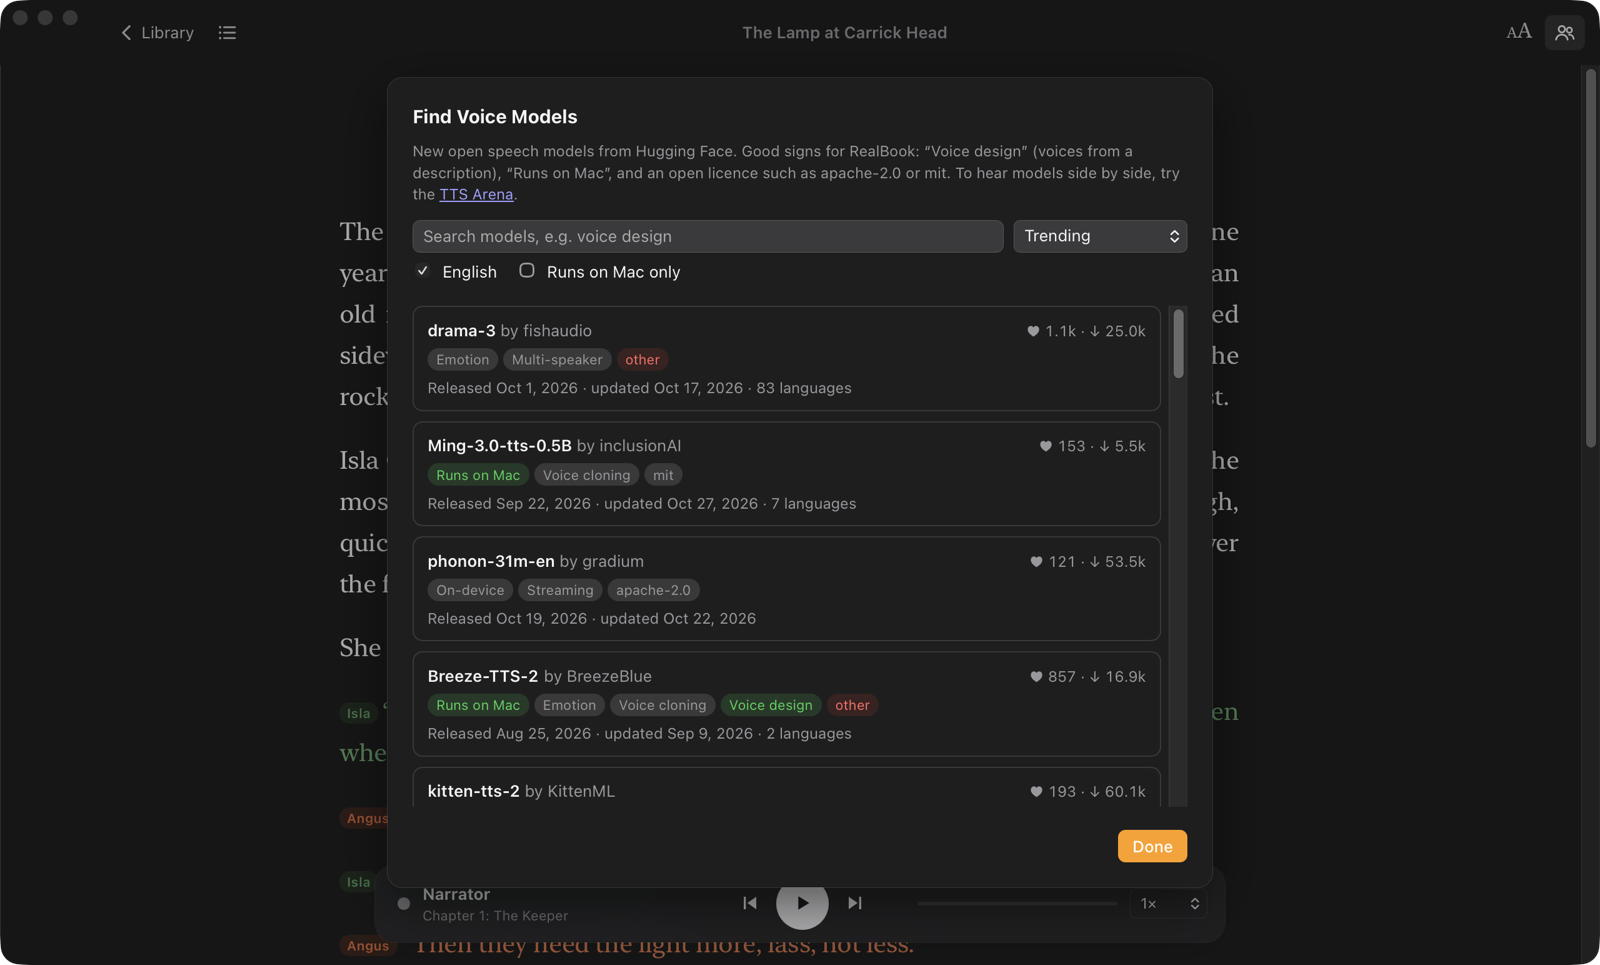
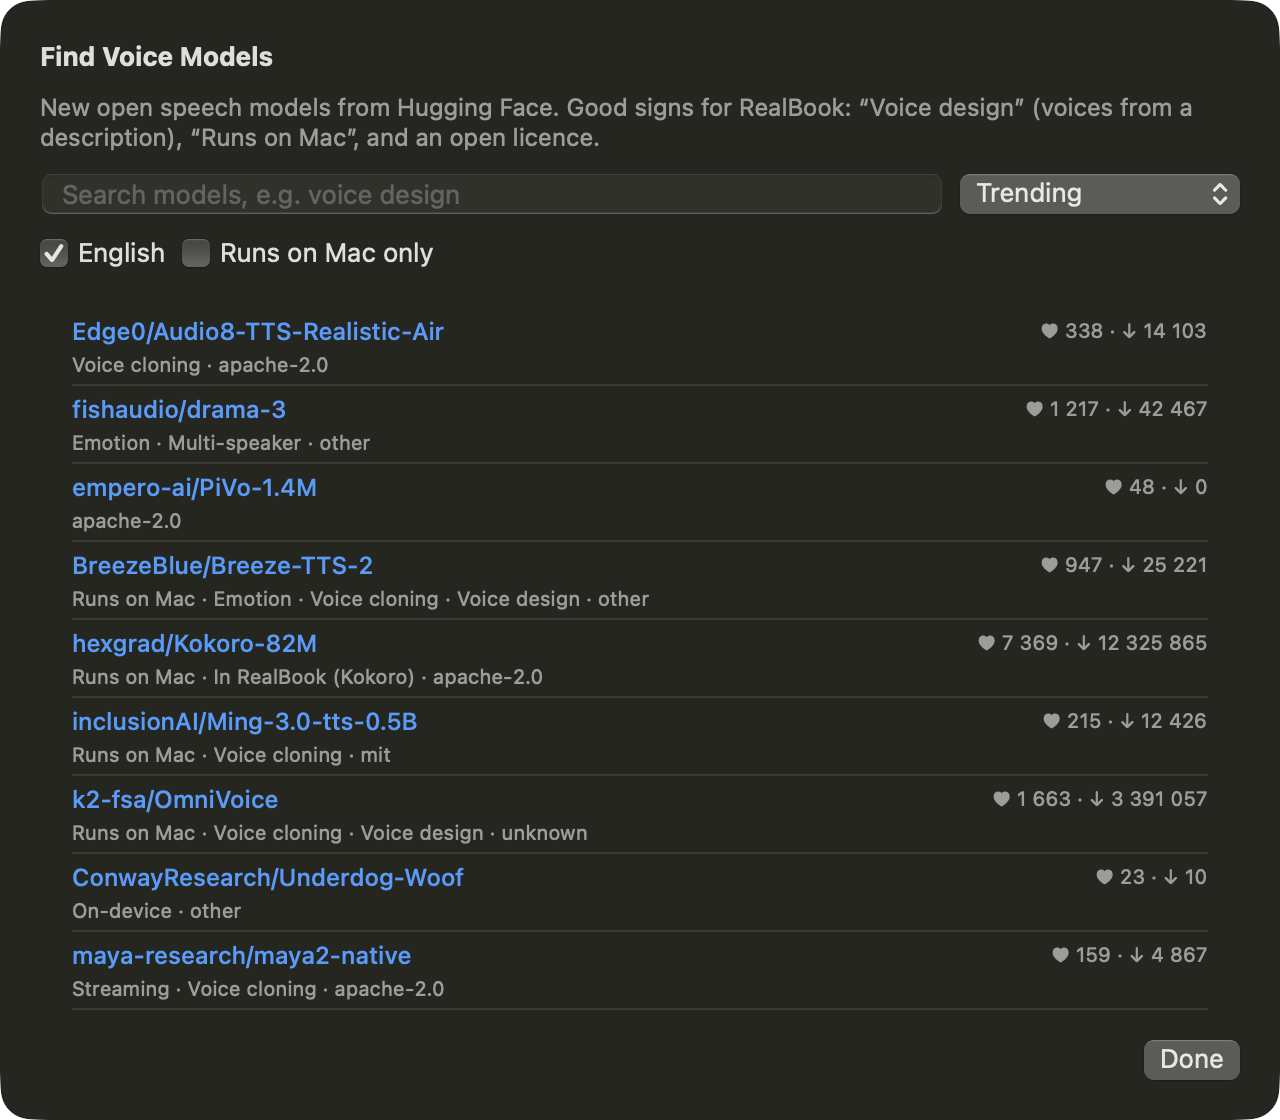
Website and README: the iPhone app, and pictures of the current apps
The phone section described listening in the phone's browser; it now covers the iPhone app (pairing,
the next 4 hours saved, offline copies), how to install it from Xcode, and the browser for other
devices. New pictures of the iPhone app and the Find Voice Models window; the unused old library
picture is gone. The Mac debug script can open Settings and the model finder for screenshots.

diff --git a/docs/index.html b/docs/index.html
@@ -83,7 +83,7 @@
         <a class="btn secondary" href="https://github.com/stanislav16/realbook/releases/latest/download/RealBook-linux.tar.gz">Download for Linux<small>64-bit, Ubuntu 22.04 or newer</small></a>
       </div>
       <p class="note">Open source (GPL-3.0). No account, no subscription. Works with DRM-free EPUB and text files.</p>
-      <div class="shot"><img src="images/reader.png" alt="RealBook reading a book, with each character's lines in their own colour and the cast of voices beside it"></div>
+      <div class="shot"><img src="images/reader.png" alt="RealBook on a Mac reading a book aloud, with each character's lines in their own colour and the line being read highlighted"></div>
     </div>
 
     <section id="voices">
@@ -93,17 +93,18 @@
         <div class="card"><h3>Voices designed from the book</h3><p>With designed voices (Qwen3-TTS), each character's voice is made from a written description: “An old man in his seventies with a deep, low voice and a Scottish accent.” Rewrite any description and hear the change.</p></div>
         <div class="card"><h3>Natural voices, offline</h3><p>Kokoro's natural-sounding voices run on your own computer, about four times faster than real time. Nothing is uploaded.</p></div>
         <div class="card"><h3>Knows who's talking</h3><p>A built-in analyzer attributes dialogue to characters for free. Optionally, Claude can read the book for even more accurate casting.</p></div>
-        <div class="card"><h3>A reader you'll enjoy</h3><p>Themes, fonts and sizes like Apple Books, a table of contents that follows the book's own, and each speaker's lines in their colour.</p></div>
+        <div class="card"><h3>A reader you'll enjoy</h3><p>A native Mac app with themes, fonts and sizes like Apple Books, a table of contents that follows the book's own, and each speaker's lines in their colour.</p></div>
       </div>
     </section>
 
     <section id="devices">
       <div class="split flip">
-        <div class="phone"><img src="images/phone.png" alt="RealBook on a phone screen"></div>
+        <div class="phone"><img src="images/phone.png" alt="The RealBook iPhone app reading the same book, with the player at the bottom"></div>
         <div>
-          <h2>On your phone too</h2>
-          <p class="lead">Turn on <b>Listen on Other Devices</b> and scan the QR code: your phone, tablet or another computer on the same Wi‑Fi gets your whole library, with your place kept in sync. The voices are made on your Mac, so even the large models work.</p>
-          <p class="lead">Going out? <b>Export Audiobook</b> turns a book into an .m4b with chapters, cover and every character's voice, ready for Apple Books, BookPlayer, Smart AudioBook Player or VLC, offline.</p>
+          <h2>On your iPhone too</h2>
+          <p class="lead">The RealBook iPhone app pairs with your Mac: open <b>Listen on iPhone</b> and scan the code. It reads like the Mac, keeps your place in step with it, and the voices are made on your Mac, so even the large models work.</p>
+          <p class="lead">Going out? Whenever it can reach your Mac, your iPhone saves the next 4 hours of the book you're listening to. Or keep a whole book on it as an offline copy, or export an .m4b audiobook for any audiobook app.</p>
+          <p class="note">The iPhone app isn't on the App Store yet: you can install it from the source with Xcode and a free Apple ID (<a href="https://github.com/stanislav16/realbook#on-your-iphone-phone-or-another-computer">how</a>). Android phones, tablets and other computers listen in their browser: scan the same code with the camera. On Windows and Linux, turn on <b>Listen on Other Devices</b> in Settings.</p>
         </div>
       </div>
     </section>
@@ -122,9 +123,9 @@
       <h2>Download and install</h2>
       <table>
         <tr><th>Computer</th><th>What you get</th><th>First launch</th></tr>
-        <tr><td>Mac with Apple silicon, macOS 14+</td><td>Mac voices, Kokoro, listening on your phone and audiobook export. Designed voices (Qwen3-TTS) need macOS 26 or later.</td><td>Open <code>RealBook.dmg</code> and drag RealBook to Applications. The app isn't notarized yet: the first time, macOS will refuse to open it; go to System Settings → Privacy &amp; Security and click <b>Open Anyway</b>.</td></tr>
-        <tr><td>Windows 10 or 11</td><td>Windows voices, Kokoro, listening on your phone. Designed voices and audiobook export are Mac-only for now.</td><td>Unzip <code>RealBook-windows.zip</code> and run <code>RealBook.exe</code>. SmartScreen may warn about an unknown publisher: click <b>More info → Run anyway</b>.</td></tr>
-        <tr><td>Linux, 64-bit (Ubuntu 22.04, Debian 12, Fedora 36 or newer)</td><td>Kokoro, and espeak-ng voices if it's installed; listening on your phone. Designed voices and audiobook export are Mac-only for now.</td><td>Unpack <code>RealBook-linux.tar.gz</code> and run <code>RealBook/RealBook</code>. Download the Kokoro voices when it offers them: that's what reads your books.</td></tr>
+        <tr><td>Mac with Apple silicon, macOS 14+</td><td>Mac voices, Kokoro, the iPhone app and audiobook export. Designed voices (Qwen3-TTS) need macOS 26 or later.</td><td>Open <code>RealBook.dmg</code> and drag RealBook to Applications. The app isn't notarized yet: the first time, macOS will refuse to open it; go to System Settings → Privacy &amp; Security and click <b>Open Anyway</b>.</td></tr>
+        <tr><td>Windows 10 or 11</td><td>Windows voices, Kokoro, listening in your phone's browser. Designed voices and audiobook export are Mac-only for now.</td><td>Unzip <code>RealBook-windows.zip</code> and run <code>RealBook.exe</code>. SmartScreen may warn about an unknown publisher: click <b>More info → Run anyway</b>.</td></tr>
+        <tr><td>Linux, 64-bit (Ubuntu 22.04, Debian 12, Fedora 36 or newer)</td><td>Kokoro, and espeak-ng voices if it's installed; listening in your phone's browser. Designed voices and audiobook export are Mac-only for now.</td><td>Unpack <code>RealBook-linux.tar.gz</code> and run <code>RealBook/RealBook</code>. Download the Kokoro voices when it offers them: that's what reads your books.</td></tr>
       </table>
       <p class="note">Voice models are downloaded from inside the app the first time you choose them: Kokoro is 354 MB, designed voices 6.3 GB.</p>
     </section>

diff --git a/mac/Sources/RealBook/DebugScript.swift b/mac/Sources/RealBook/DebugScript.swift
@@ -39,8 +39,14 @@ enum DebugScript {
                 guard wh.count == 2, let window = NSApp.windows.first(where: { $0.isVisible && $0.contentView != nil }) else { continue }
                 window.setContentSize(NSSize(width: wh[0], height: wh[1]))
                 window.center()
-            case "shot":  // the window as it is on screen, glass included (snap can't draw the glass)
-                guard let window = NSApp.windows.first(where: { $0.isVisible && $0.contentView != nil }) else { continue }
+            case "settings":  // as the app menu's Settings… does
+                guard let menu = NSApp.mainMenu?.items.first?.submenu,
+                      let index = menu.items.firstIndex(where: { $0.title.hasPrefix("Settings") }) else { print("[settings] no menu item"); continue }
+                menu.performActionForItem(at: index)
+            case "finder": NotificationCenter.default.post(name: .init("debugFinder"), object: nil)
+            case "shot":  // the front window as it is on screen, glass included (snap can't draw the glass)
+                guard let front = NSApp.orderedWindows.first(where: { $0.isVisible && $0.contentView != nil }) else { continue }
+                let window = front.attachedSheet ?? front
                 // An app may capture its own windows; the function is hidden from Swift since macOS 15.
                 typealias Capture = @convention(c) (CGRect, UInt32, UInt32, UInt32) -> Unmanaged<CGImage>?
                 guard let symbol = dlsym(dlopen(nil, RTLD_NOW), "CGWindowListCreateImage"),
@@ -53,7 +59,7 @@ enum DebugScript {
                 if let e { NSApp.postEvent(e, atStart: false) }
             case "responder": print("[responder]", NSApp.keyWindow.map { String(describing: type(of: $0.firstResponder as Any)) } ?? "no key window")
             case "activate": NSApp.activate(ignoringOtherApps: true)
-            case "quit": NSApp.terminate(nil)
+            case "quit": exit(0)  // at once, even with a sheet open
             default: print("[script] unknown", raw)
             }
             fflush(stdout)

diff --git a/mac/Sources/RealBook/Screens.swift b/mac/Sources/RealBook/Screens.swift
@@ -259,6 +259,9 @@ struct SettingsScreen: View {
         .formStyle(.grouped)
         .frame(width: 560, height: 520)
         .sheet(isPresented: $finder) { ModelFinder().environment(model) }
+        #if DEBUG
+        .onReceive(NotificationCenter.default.publisher(for: .init("debugFinder"))) { _ in finder = true }
+        #endif
         .task {
             while !Task.isCancelled {
                 await model.refreshConfig()

diff --git a/README.md b/README.md
@@ -48,13 +48,15 @@ uv run realbook-web   # the same UI in your browser at http://127.0.0.1:8765
 - **Reader:** **Aa** sets the theme (Original, Paper, Sepia, Gray, Night), font, text size, justification, and whether dialogue is coloured by character. The list button shows the table of contents; the people button shows the cast.
 - **Menu bar (Mac):** RealBook → Settings… (⌘,) and Find Voice Models…, File → Add Book… (⌘O) and Library (⌘L), Playback → Next/Previous Chapter (⌘→/⌘←), Book → Show Contents (⌘1) / Show Cast (⌘2) / Export Audiobook…. On Windows, Settings and Find Voice Models are in the File menu.
 
-## On your phone, tablet or another computer
+## On your iPhone, phone or another computer
 
-**Listen over Wi‑Fi.** In Settings, turn on **Listen on Other Devices** and scan the QR code with your phone. The whole library opens in the phone's browser, laid out for a small screen, and the computer makes the voices, so designed voices work too. On iPhone, Share → Add to Home Screen gives it an app icon. Devices need the secret key in the link (a cookie remembers it); they can read, listen and edit the cast, but can't change settings or open anything on the computer. **New Link** cuts off every device paired so far. The computer stays awake while something is playing, but it has to be on and on the same network.
+**The iPhone app** (with the Mac app). In RealBook on the Mac, open **Listen on iPhone** and scan the code from the iPhone app. It reads like the Mac and keeps your place in step with it; the Mac makes the voices, so designed voices work too. Whenever it can reach the Mac over Wi‑Fi, the iPhone saves the next 4 hours of the book you're listening to, so you can leave without planning ahead, and **Listen on iPhone** can also make a whole book into an offline copy for it.
+
+The iPhone app isn't on the App Store yet. To install it (iOS 17 or later): open `ios/RealBook.xcodeproj` in Xcode, add your Apple ID in Xcode → Settings → Accounts, connect your iPhone, pick it as the destination and press ▶. The first time, turn on Settings → Privacy & Security → Developer Mode on the iPhone, and trust your Apple ID under Settings → General → VPN & Device Management. With a free Apple ID, Xcode has to install it again every 7 days.
+
+**In a browser.** Any other phone, tablet or computer on the same Wi‑Fi can listen in its browser: scan the Mac's code with the camera, or on Windows and Linux turn on **Listen on Other Devices** in Settings and scan its QR code. The whole library opens, laid out for a small screen, and the computer makes the voices. Devices need the secret key in the link (a cookie remembers it); they can read, listen and change voices, but not change settings or open things on the computer. **New Code** (Mac) or **New Link** (Windows, Linux) cuts off every device paired so far, the iPhone too. The computer stays awake while something is playing, but it has to be on and on the same network.
 
 **Take a book with you.** A book's ••• menu → **Export Audiobook…** (Mac) renders the whole book in the cast's voices into an `.m4b` audiobook with chapters, title, author and cover. It plays offline in Apple Books, BookPlayer, Smart AudioBook Player, VLC and other audiobook apps. Lines you've already listened to are reused; a long novel can take a few hours to make.
-
-**Why not a phone app?** Kokoro is small enough to run on a phone, but the designed voices' models (2.5–4.5 GB, and slower than real time on phone hardware) are not practical there, so the computer does the work.
 
 ## Fixing things
 
